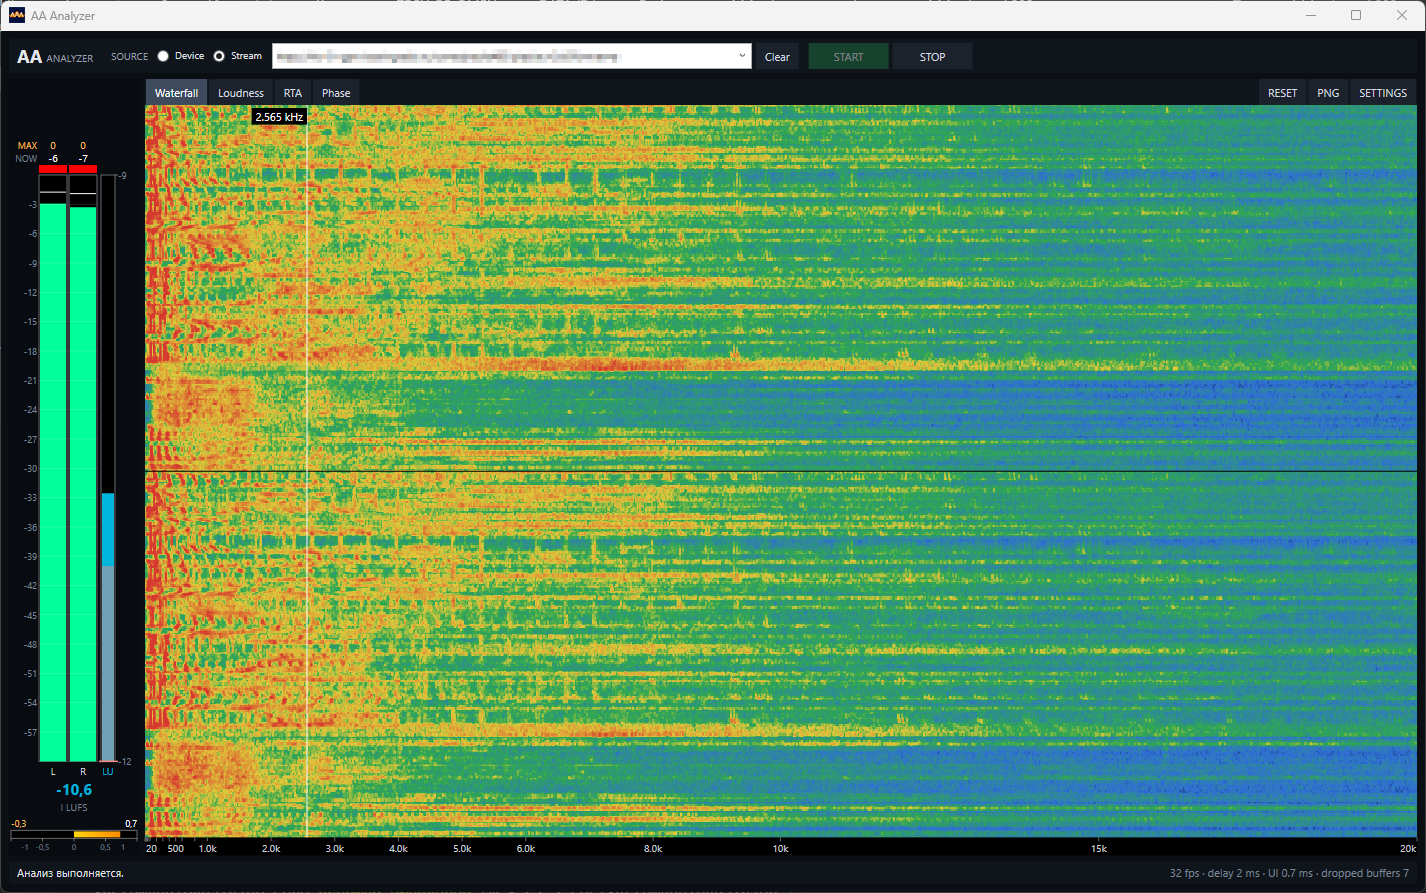
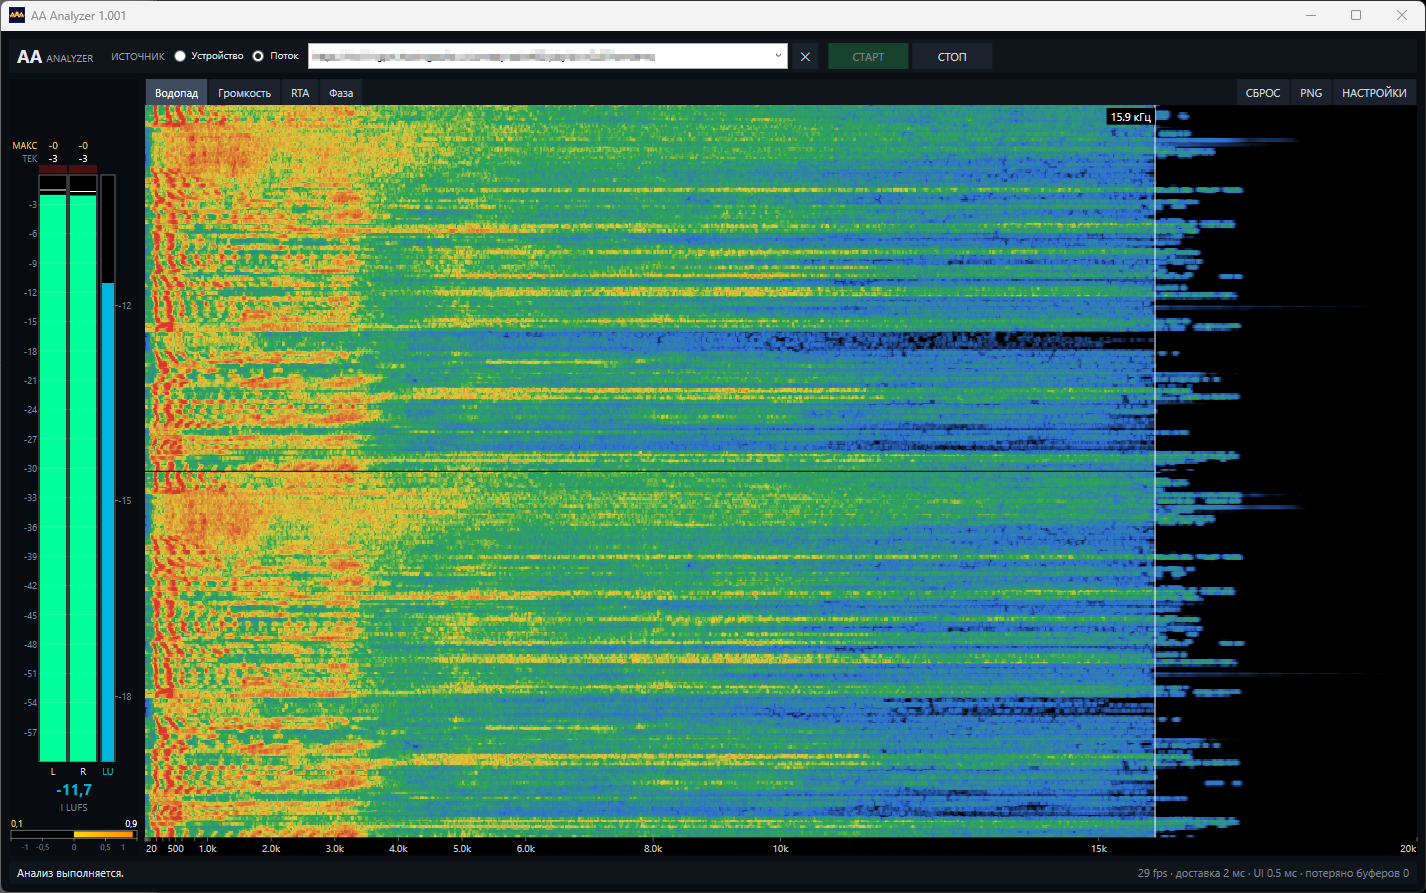
docs: English README, Russian moved to README-ru.md with cross-links; update Waterfall screenshot

diff --git a/README.md b/README.md
@@ -1,33 +1,35 @@
 # AAAnalyzer
 
-Портативный анализатор звука для Windows: показывает спектр, громкость и фазу
-системного звука или сетевого потока (Icecast / HLS) в реальном времени. Ничего
-не нужно устанавливать: ни драйвера, ни виртуального аудиокабеля.
+[🇷🇺 Русский](README-ru.md) · 🇬🇧 English
 
-## Что умеет
+A portable sound analyzer for Windows: shows the spectrum, loudness and phase
+of system audio or a network stream (Icecast / HLS) in real time. Nothing to
+install: no driver, no virtual audio cable.
 
-### Источники звука
+## Features
 
-- **Устройство** — системный микс выбранного устройства вывода через WASAPI loopback. Воспроизведение в колонках или наушниках не нарушается. ASIO не поддерживается!
-- **Поток** — HTTP/HTTPS-адрес Icecast или HLS (`.m3u8`), декодирует LibVLC.
+### Audio sources
 
-### Панель индикаторов уровней (слева)
+- **Device** — the system mix of the selected output device via WASAPI loopback. Playback on speakers or headphones is not interrupted. ASIO is not supported!
+- **Stream** — an HTTP/HTTPS Icecast or HLS (`.m3u8`) URL, decoded by LibVLC.
 
-- Peak-индикаторы каналов L и R со шкалой в dB.
-- LU-индикатор громкости Integrated LUFS. Его вертикальная шкала совпадает со шкалой графика Loudness: 0 и минимум находятся на тех же высотах, шаг меток 3 LU.
-- Индикатор фазы (корреляция L/R от −1 до +1).
+### Level meter panel (left)
 
-### Режимы (вкладки)
+- Peak meters for the L and R channels with a dB scale.
+- Integrated LUFS loudness meter (LU). Its vertical scale matches the Loudness chart scale: 0 and the minimum are at the same heights, with marks every 3 LU.
+- Phase meter (L/R correlation from −1 to +1).
 
-- **Waterfall** — стерео-водопад: левый канал вверху, правый внизу.
+### Modes (tabs)
+
+- **Waterfall** — stereo waterfall: left channel on top, right channel at the bottom.
 
 ![Waterfall](screenshots/AAAnalyzer-Waterfall.png)
 
-- **Loudness** — график истории громкости по времени.
-  - Метрики: Momentary, Short-Term, Integrated.
-  - Окно: 1 мин … 12 ч; масштаб по Y (Y−/Y+), сдвиг (▼/▲) или автомасштаб.
-  - Target line: (по умолчанию −23 LU) с полосой допуска ±3 LU.
-  - Расчёт: по ITU-R BS.1770 (K-взвешивание, абсолютный и относительный пороги).
+- **Loudness** — loudness history chart over time.
+  - Metrics: Momentary, Short-Term, Integrated.
+  - Window: 1 min … 12 h; Y scale (Y−/Y+), shift (▼/▲) or auto-scale.
+  - Target line (−23 LU by default) with a ±3 LU tolerance band.
+  - Calculation per ITU-R BS.1770 (K-weighting, absolute and relative gates).
 
 ![Loudness: Momentary](screenshots/AAAnalyzer-LoudnessM.png)
 
@@ -35,117 +37,117 @@
 
 ![Loudness: Integrated](screenshots/AAAnalyzer-LoudnessI.png)
 
-- **RTA** — спектр-анализатор
-  - полосы 1/1, 1/3, 1/6, 1/12 октавы
-  - источник Mono / L / R,
-  - усреднение (1, 10, 20, …).
-  - Target line: (по умолчанию −23 LU) с полосой допуска ±3 LU
+- **RTA** — spectrum analyzer
+  - 1/1, 1/3, 1/6, 1/12 octave bands
+  - Mono / L / R source,
+  - averaging (1, 10, 20, …).
+  - Target line (−23 LU by default) with a ±3 LU tolerance band
 
 ![RTA](screenshots/AAAnalyzer-RTA.png)
 
-- **Phase** — фазоскоп с регулировкой усиления.
+- **Phase** — phase scope with gain control.
 
 ![Phase](screenshots/AAAnalyzer-Phase.png)
 
-Кнопки в строке вкладок: **СБРОС** (все измерения и графики), **PNG**
-(скриншот текущей вкладки в `Screenshots\`), **НАСТРОЙКИ**.
+Buttons in the tab row: **RESET** (all measurements and charts), **PNG**
+(screenshot of the current tab into `Screenshots\`), **SETTINGS**.
 
-### Язык интерфейса
+### Interface language
 
-English или Русский: переключатель в верхней части окна настроек, применяется сразу.
-Выбор сохраняется в `Data\App.json`. При первом запуске берётся язык системы.
+English or Russian: the switch is at the top of the settings window and applies immediately.
+The choice is saved in `Data\App.json`. On first launch the system language is used.
 
-### Настройки и профили
+### Settings and profiles
 
-Окно настроек охватывает:
-  - FFT (размер, окно, шкалы),
-  - Waterfall (пороги и палитра),
-  - индикаторы,
+The settings window covers:
+  - FFT (size, window, scales),
+  - Waterfall (thresholds and palette),
+  - meters,
   - Loudness,
-  - RTA
+  - RTA,
   - Phase.
-Наборы настроей хранятся в профилях (`Data\profiles.json`): можно сохранить под именем, удалить, назначить профиль по умолчанию. Изменения кнопками на панелях (метрика, окно, цель, RTA)
-сохраняются в профиль по умолчанию автоматически.
+Sets of settings are stored in profiles (`Data\profiles.json`): you can save one under a name, delete it, or make it the default. Changes made with the panel buttons (metric, window, target, RTA)
+are saved to the default profile automatically.
 
-## Требования
+## Requirements
 
 - Windows 10/11.
-- Для запуска готовой сборки ничего не нужно (.NET и LibVLC входят в неё).
-- Для сборки из исходников: [.NET 8 SDK](https://dotnet.microsoft.com/download/dotnet/8.0)
-  с поддержкой Windows Desktop (WPF).
+- Nothing is needed to run a ready-made build (.NET and LibVLC are included).
+- To build from source: [.NET 8 SDK](https://dotnet.microsoft.com/download/dotnet/8.0)
+  with Windows Desktop (WPF) support.
 
-## Запуск готовой сборки
+## Running a ready-made build
 
-Распакуйте архив `AAAnalyzer-<версия>.zip` в папку куда угодно и запустите
-`AAAnalyzer.exe`. Рядом с программой создаются:
+Unpack the `AAAnalyzer-<version>.zip` archive anywhere and run
+`AAAnalyzer.exe`. The following are created next to the program:
 
-| Путь | Содержимое |
+| Path | Contents |
 |---|---|
-| `Data\profiles.json` | профили настроек |
-| `Data\App.json` | язык интерфейса |
-| `Data\stream-history.json` | история адресов потоков |
-| `logs\AAAnalyzer.log` | журнал работы |
-| `Screenshots\` | PNG-скриншоты вкладок |
+| `Data\profiles.json` | settings profiles |
+| `Data\App.json` | interface language |
+| `Data\stream-history.json` | stream URL history |
+| `logs\AAAnalyzer.log` | run log |
+| `Screenshots\` | PNG screenshots of tabs |
 
-## Сборка из исходников
+## Building from source
 
 ```powershell
 git clone https://github.com/ykmn/AAAnalyzer
 cd AAAnalyzer
 
-# отладочная сборка и тесты
+# debug build and tests
 dotnet build
 dotnet test
 
-# запуск без публикации
+# run without publishing
 dotnet run --project src\SystemAudioAnalyzer.App
 ```
 
-### Портативная сборка (.exe)
+### Portable build (.exe)
 
 ```powershell
-# версия берётся из VERSION.txt, формат «1.012 - 2026.10.08»
+# the version is taken from VERSION.txt, format "1.012 - 2026.10.08"
 .\release\rebuild.ps1                              # win-x64
 .\release\rebuild.ps1 -RuntimeIdentifier win-arm64 # ARM64
 ```
 
-Скрипт выполнит `dotnet publish` (Release, self-contained, без одного файла) в
-`release\AAAnalyzer-<версия>`, уберет лишние локализации (оставит только `en` и `ru`)
-и проверит, что в сборке есть `AAAnalyzer.exe` и `libvlc.dll`. Готовую папку
-можно переносить на другой компьютер целиком.
+The script runs `dotnet publish` (Release, self-contained, not single-file) into
+`release\AAAnalyzer-<version>`, removes unneeded localizations (keeping only `en` and `ru`)
+and checks that the build contains `AAAnalyzer.exe` and `libvlc.dll`. The finished folder
+can be copied to another computer as a whole.
 
-История изменений — в [CHANGELOG.md](CHANGELOG.md).
+Change history is in [CHANGELOG.md](CHANGELOG.md).
 
-## Структура репозитория
+## Repository layout
 
 ```text
 SystemAudioAnalyzer.sln
 src/
-  SystemAudioAnalyzer.Core/        движок: захват, уровни, True Peak, LUFS, FFT
-  SystemAudioAnalyzer.App/         WPF-интерфейс, источники WASAPI и LibVLC, настройки
-  SystemAudioAnalyzer.Diagnostic/  консольная утилита: список устройств вывода
+  SystemAudioAnalyzer.Core/        engine: capture, levels, True Peak, LUFS, FFT
+  SystemAudioAnalyzer.App/         WPF UI, WASAPI and LibVLC sources, settings
+  SystemAudioAnalyzer.Diagnostic/  console utility: list output devices
 tests/
-  SystemAudioAnalyzer.Core.Tests/  тесты движка и измерителей
-  SystemAudioAnalyzer.App.Tests/   тесты интерфейсной логики, настроек и отрисовки
+  SystemAudioAnalyzer.Core.Tests/  engine and meter tests
+  SystemAudioAnalyzer.App.Tests/   tests for UI logic, settings and rendering
 release/
-  rebuild.ps1                      сборка портативной версии
+  rebuild.ps1                      portable build script
 ```
 
-### Как устроен поток данных
+### How the data flows
 
 ```text
 WASAPI loopback / LibVLC
-  → очередь (~4 с звука)
-  → равные порции, воспроизведение по часам аудио (~30 кадров/с)
+  → queue (~4 s of audio)
+  → equal chunks, played back on the audio clock (~30 frames/s)
   → LevelMeter, TruePeak, LoudnessMeter, SpectrumAnalyzer (FFT)
-  → AnalysisFrame (неизменяемый снимок)
-  → WPF-представления
+  → AnalysisFrame (immutable snapshot)
+  → WPF views
 ```
 
-Сетевые источники отдают звук пачками (примерно по полсекунды), поэтому движок
-проигрывает его в темпе аудио, а не по мере поступления: кадры идут ровно и
-звук не теряется.
+Network sources deliver audio in bursts (about half a second each), so the engine
+plays it back at audio pace rather than as it arrives: frames come out evenly
+and no audio is lost.
 
-## Благодарности
+## Acknowledgments
 
-Идея интерфейса навеяна плагином Spectrum Tool DSP для WinAMP.
+The interface idea was inspired by the Spectrum Tool DSP plugin for WinAMP.

diff --git a/README-ru.md b/README-ru.md
@@ -1,0 +1,153 @@
+# AAAnalyzer
+
+🇷🇺 Русский · [🇬🇧 English](README.md)
+
+Портативный анализатор звука для Windows: показывает спектр, громкость и фазу
+системного звука или сетевого потока (Icecast / HLS) в реальном времени. Ничего
+не нужно устанавливать: ни драйвера, ни виртуального аудиокабеля.
+
+## Что умеет
+
+### Источники звука
+
+- **Устройство** — системный микс выбранного устройства вывода через WASAPI loopback. Воспроизведение в колонках или наушниках не нарушается. ASIO не поддерживается!
+- **Поток** — HTTP/HTTPS-адрес Icecast или HLS (`.m3u8`), декодирует LibVLC.
+
+### Панель индикаторов уровней (слева)
+
+- Peak-индикаторы каналов L и R со шкалой в dB.
+- LU-индикатор громкости Integrated LUFS. Его вертикальная шкала совпадает со шкалой графика Loudness: 0 и минимум находятся на тех же высотах, шаг меток 3 LU.
+- Индикатор фазы (корреляция L/R от −1 до +1).
+
+### Режимы (вкладки)
+
+- **Waterfall** — стерео-водопад: левый канал вверху, правый внизу.
+
+![Waterfall](screenshots/AAAnalyzer-Waterfall.png)
+
+- **Loudness** — график истории громкости по времени.
+  - Метрики: Momentary, Short-Term, Integrated.
+  - Окно: 1 мин … 12 ч; масштаб по Y (Y−/Y+), сдвиг (▼/▲) или автомасштаб.
+  - Target line: (по умолчанию −23 LU) с полосой допуска ±3 LU.
+  - Расчёт: по ITU-R BS.1770 (K-взвешивание, абсолютный и относительный пороги).
+
+![Loudness: Momentary](screenshots/AAAnalyzer-LoudnessM.png)
+
+![Loudness: Short-term](screenshots/AAAnalyzer-LoudnessS.png)
+
+![Loudness: Integrated](screenshots/AAAnalyzer-LoudnessI.png)
+
+- **RTA** — спектр-анализатор
+  - полосы 1/1, 1/3, 1/6, 1/12 октавы
+  - источник Mono / L / R,
+  - усреднение (1, 10, 20, …).
+  - Target line: (по умолчанию −23 LU) с полосой допуска ±3 LU
+
+![RTA](screenshots/AAAnalyzer-RTA.png)
+
+- **Phase** — фазоскоп с регулировкой усиления.
+
+![Phase](screenshots/AAAnalyzer-Phase.png)
+
+Кнопки в строке вкладок: **СБРОС** (все измерения и графики), **PNG**
+(скриншот текущей вкладки в `Screenshots\`), **НАСТРОЙКИ**.
+
+### Язык интерфейса
+
+English или Русский: переключатель в верхней части окна настроек, применяется сразу.
+Выбор сохраняется в `Data\App.json`. При первом запуске берётся язык системы.
+
+### Настройки и профили
+
+Окно настроек охватывает:
+  - FFT (размер, окно, шкалы),
+  - Waterfall (пороги и палитра),
+  - индикаторы,
+  - Loudness,
+  - RTA
+  - Phase.
+Наборы настроей хранятся в профилях (`Data\profiles.json`): можно сохранить под именем, удалить, назначить профиль по умолчанию. Изменения кнопками на панелях (метрика, окно, цель, RTA)
+сохраняются в профиль по умолчанию автоматически.
+
+## Требования
+
+- Windows 10/11.
+- Для запуска готовой сборки ничего не нужно (.NET и LibVLC входят в неё).
+- Для сборки из исходников: [.NET 8 SDK](https://dotnet.microsoft.com/download/dotnet/8.0)
+  с поддержкой Windows Desktop (WPF).
+
+## Запуск готовой сборки
+
+Распакуйте архив `AAAnalyzer-<версия>.zip` в папку куда угодно и запустите
+`AAAnalyzer.exe`. Рядом с программой создаются:
+
+| Путь | Содержимое |
+|---|---|
+| `Data\profiles.json` | профили настроек |
+| `Data\App.json` | язык интерфейса |
+| `Data\stream-history.json` | история адресов потоков |
+| `logs\AAAnalyzer.log` | журнал работы |
+| `Screenshots\` | PNG-скриншоты вкладок |
+
+## Сборка из исходников
+
+```powershell
+git clone https://github.com/ykmn/AAAnalyzer
+cd AAAnalyzer
+
+# отладочная сборка и тесты
+dotnet build
+dotnet test
+
+# запуск без публикации
+dotnet run --project src\SystemAudioAnalyzer.App
+```
+
+### Портативная сборка (.exe)
+
+```powershell
+# версия берётся из VERSION.txt, формат «1.012 - 2026.10.08»
+.\release\rebuild.ps1                              # win-x64
+.\release\rebuild.ps1 -RuntimeIdentifier win-arm64 # ARM64
+```
+
+Скрипт выполнит `dotnet publish` (Release, self-contained, без одного файла) в
+`release\AAAnalyzer-<версия>`, уберет лишние локализации (оставит только `en` и `ru`)
+и проверит, что в сборке есть `AAAnalyzer.exe` и `libvlc.dll`. Готовую папку
+можно переносить на другой компьютер целиком.
+
+История изменений — в [CHANGELOG.md](CHANGELOG.md).
+
+## Структура репозитория
+
+```text
+SystemAudioAnalyzer.sln
+src/
+  SystemAudioAnalyzer.Core/        движок: захват, уровни, True Peak, LUFS, FFT
+  SystemAudioAnalyzer.App/         WPF-интерфейс, источники WASAPI и LibVLC, настройки
+  SystemAudioAnalyzer.Diagnostic/  консольная утилита: список устройств вывода
+tests/
+  SystemAudioAnalyzer.Core.Tests/  тесты движка и измерителей
+  SystemAudioAnalyzer.App.Tests/   тесты интерфейсной логики, настроек и отрисовки
+release/
+  rebuild.ps1                      сборка портативной версии
+```
+
+### Как устроен поток данных
+
+```text
+WASAPI loopback / LibVLC
+  → очередь (~4 с звука)
+  → равные порции, воспроизведение по часам аудио (~30 кадров/с)
+  → LevelMeter, TruePeak, LoudnessMeter, SpectrumAnalyzer (FFT)
+  → AnalysisFrame (неизменяемый снимок)
+  → WPF-представления
+```
+
+Сетевые источники отдают звук пачками (примерно по полсекунды), поэтому движок
+проигрывает его в темпе аудио, а не по мере поступления: кадры идут ровно и
+звук не теряется.
+
+## Благодарности
+
+Идея интерфейса навеяна плагином Spectrum Tool DSP для WinAMP.
